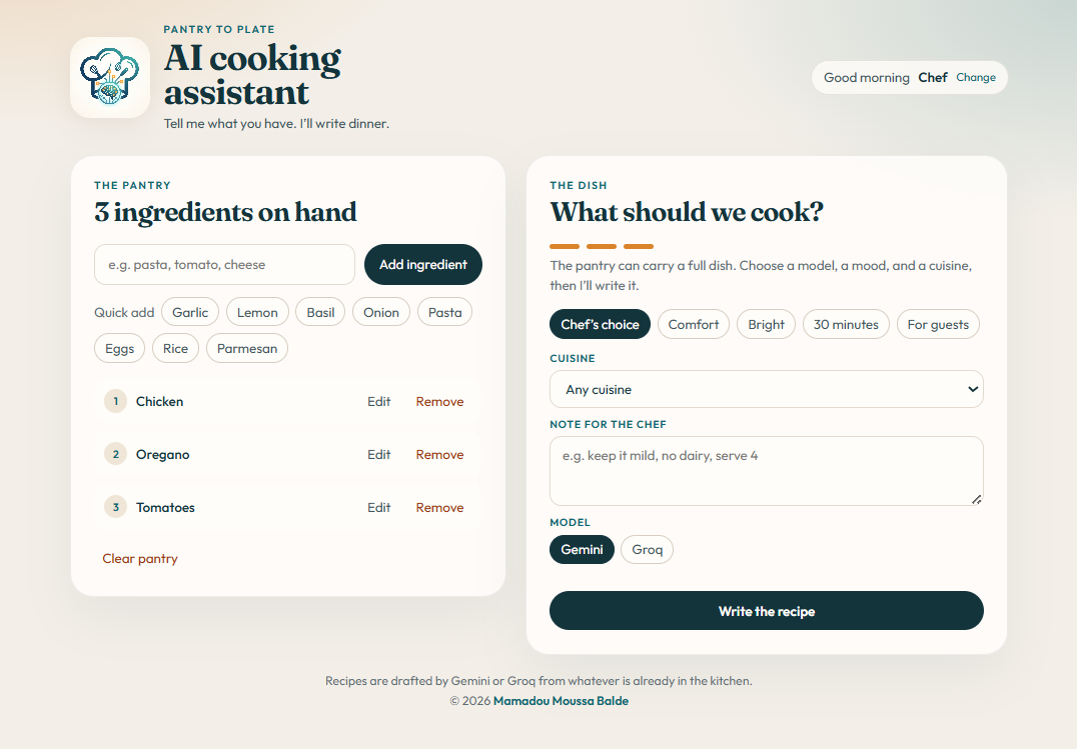
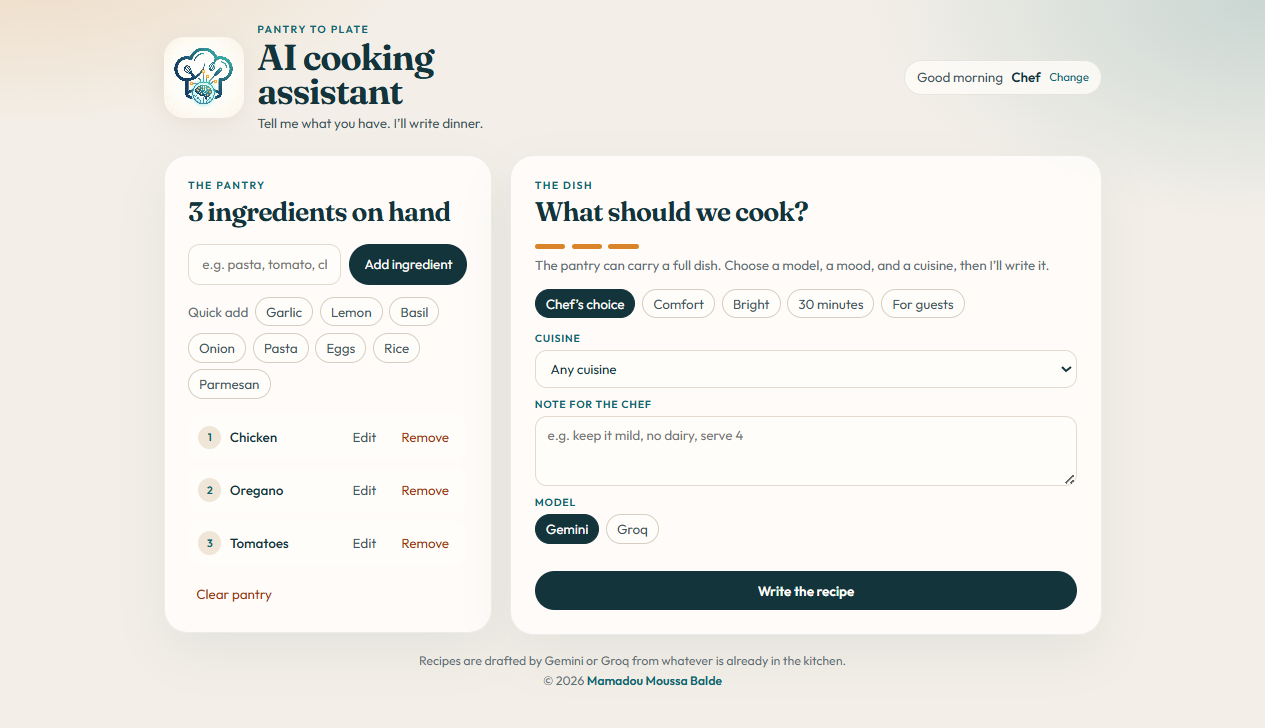
Update recipe details in README and modify associated images
- Revised recipe title to **Mild Mexican Chicken Tomato Skillet** for clarity.
- Updated the opening sentence to better describe the dish.
- Adjusted cooking time from 30 minutes to 25 minutes.
- Changed the recipe image to reflect the updated title.
- Updated footer text for consistency with the new recipe name.

diff --git a/README.md b/README.md
@@ -40,10 +40,8 @@ Under the note, **Model** offers **Gemini** and **Groq**. Gemini starts pressed.
 
 Gemini calls `gemini-2.5-flash`. Groq uses `groq-sdk` and `groq.chat.completions.create` with the model in `VITE_LLM`.
 
-This run set Comfort, Mexican, the note `keep it mild, serve 4`, and Groq. The reply is **Mild Chicken Tinga Skillet**. The line under the toolbar is `Built from Chicken, Oregano, Tomatoes, Garlic · Groq · Mexican · “keep it mild, serve 4”`. The opening sentence is "A quick, warm Mexican-style dish that makes the most of your chicken, oregano, tomatoes and garlic while staying gentle on the palate." It lists **Time:** 30 minutes and **Serves:** 4, then Ingredients, Method, and a Chef's note. The toolbar says ON THE PLATE, **Copy recipe**, and **Start over**. The recipe is written under the dish form.
+This run set Comfort, Mexican, the note `keep it mild, serve 4`, and Groq. The reply is **Mild Mexican Chicken Tomato Skillet**. The line under the toolbar is `Built from Chicken, Oregano, Tomatoes, Garlic · Groq · Mexican · “keep it mild, serve 4”`. The opening sentence is "A warm, comforting Mexican-style skillet that makes perfect use of your chicken, oregano, tomatoes and garlic while staying gentle on the heat." It lists **Time:** 25 minutes and **Serves:** 4, then Ingredients, Method, and a Chef's note. The toolbar says ON THE PLATE, **Copy recipe**, and **Start over**. The recipe is written under the dish form.
 
-![Mild Chicken Tinga Skillet, written by Groq](docs/screenshots/recipe.png)
-
-The footer says "Recipes are drafted by Gemini or Groq from whatever is already in the kitchen." and links **Mamadou Moussa Balde** to the same LinkedIn profile. This run showed © 2026.
+![Mild Mexican Chicken Tomato Skillet, written by Groq](docs/screenshots/recipe.png)
 
 `@google/generative-ai` is the Gemini client. `groq-sdk` is the Groq client. `@anthropic-ai/sdk` and `@huggingface/inference` are installed, and this page does not call them.
